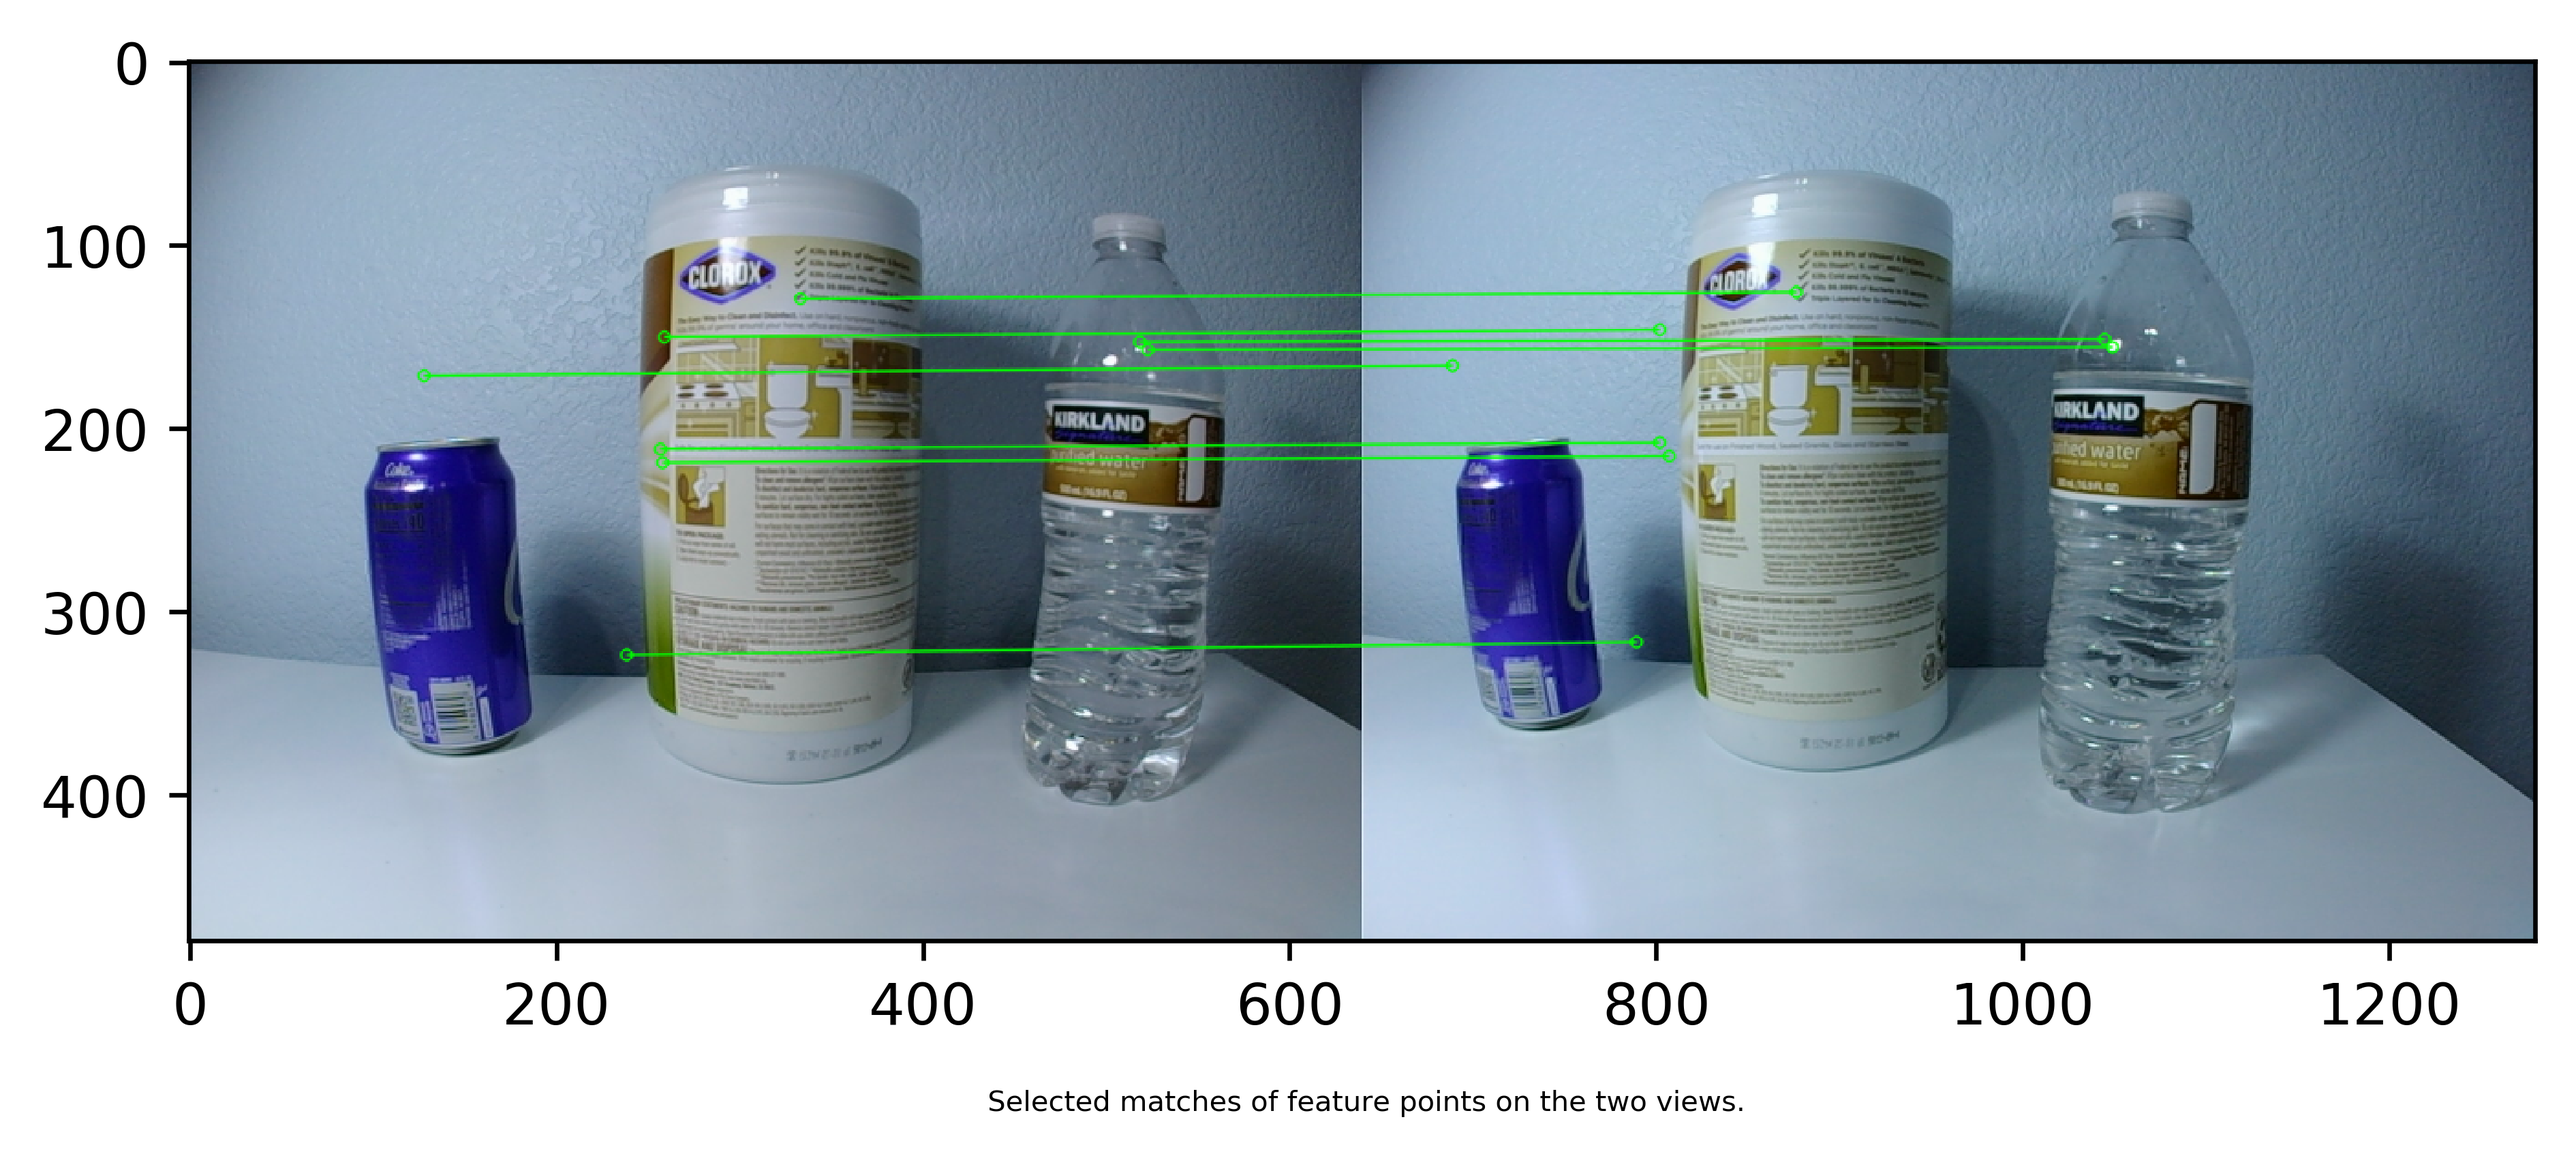
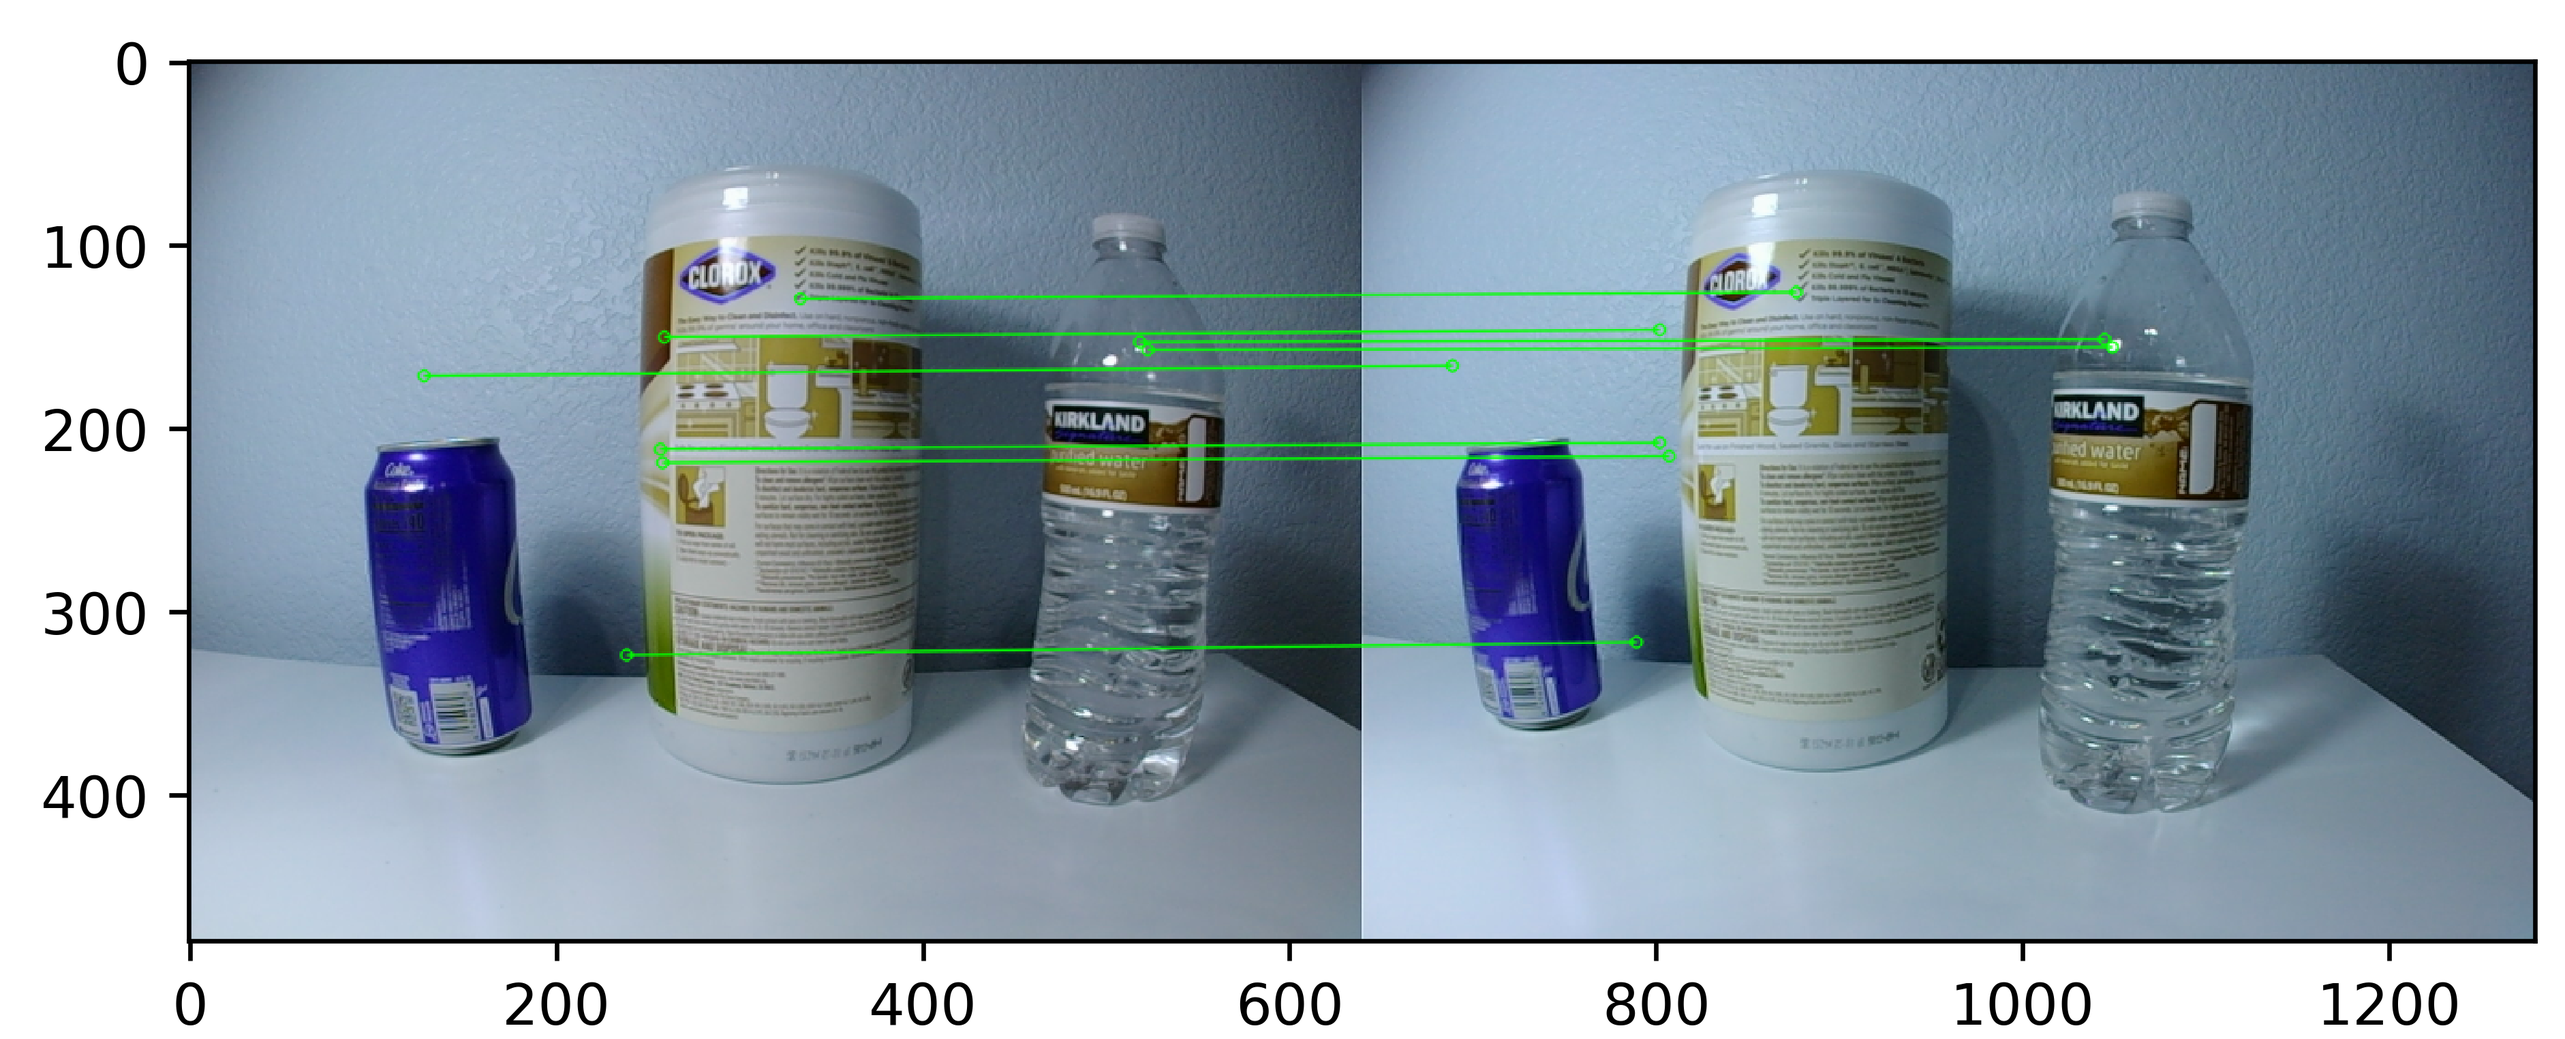
commit

diff --git a/README.md b/README.md
@@ -46,14 +46,17 @@ Using the parameters calculated in task 1 and task 2, sparse 3D coordinates from
 to reduce the number of detected features. 
 <p align="center">
   <img src="output/task_3/feature_points_img0.png">
+  <p align="center"> Detected feature points (left) and selected local maxima feature points with a six pixel radius (right) </p>
 </p>
 The reduced features are matched between the two views using 'BFMatcher' class. 
 <p align="center">
   <img src="output/task_3/matches_points_img0.png">
+  <p align="center">Selected matches of feature points on the two views</p>
 </p>
 Finally, we calculate the 3D coordinates by triangulating the matched features. 
 <p align="center">
   <img src="output/task_3/sparse_depth_img0.jpeg">
+  <p align="center">Sparse depth triangulation results: the original image (left), obtained 3D points (middle), 3D points on a cylinder surface from a certain view (right).
 </p>
 
 ### Task 4- Dense depth sensing
